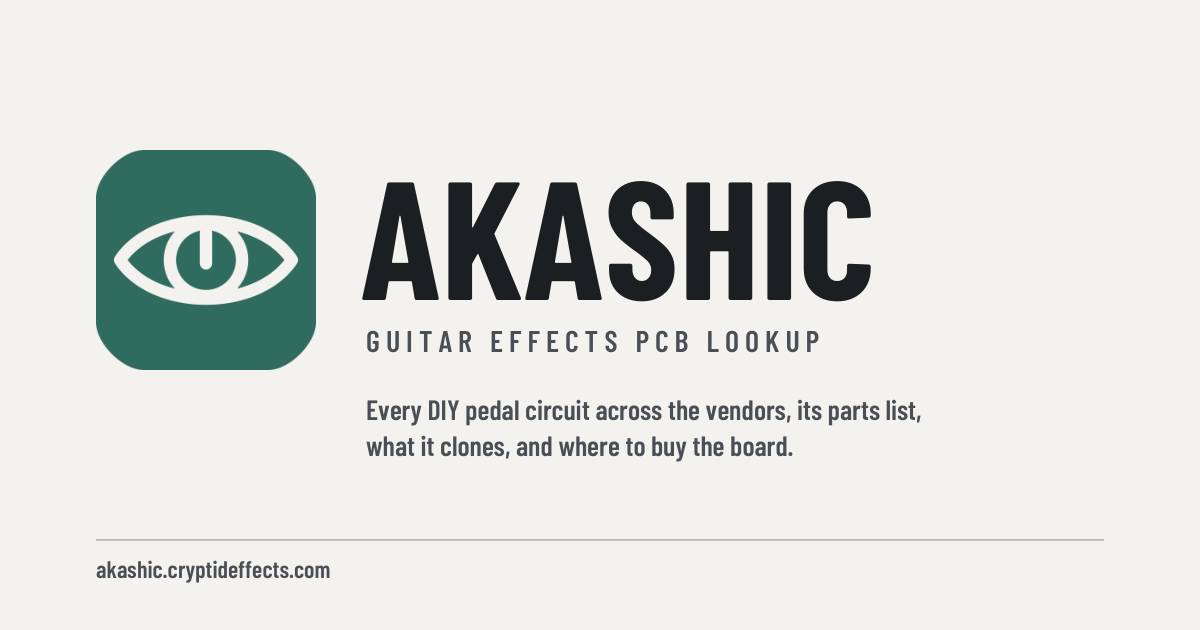
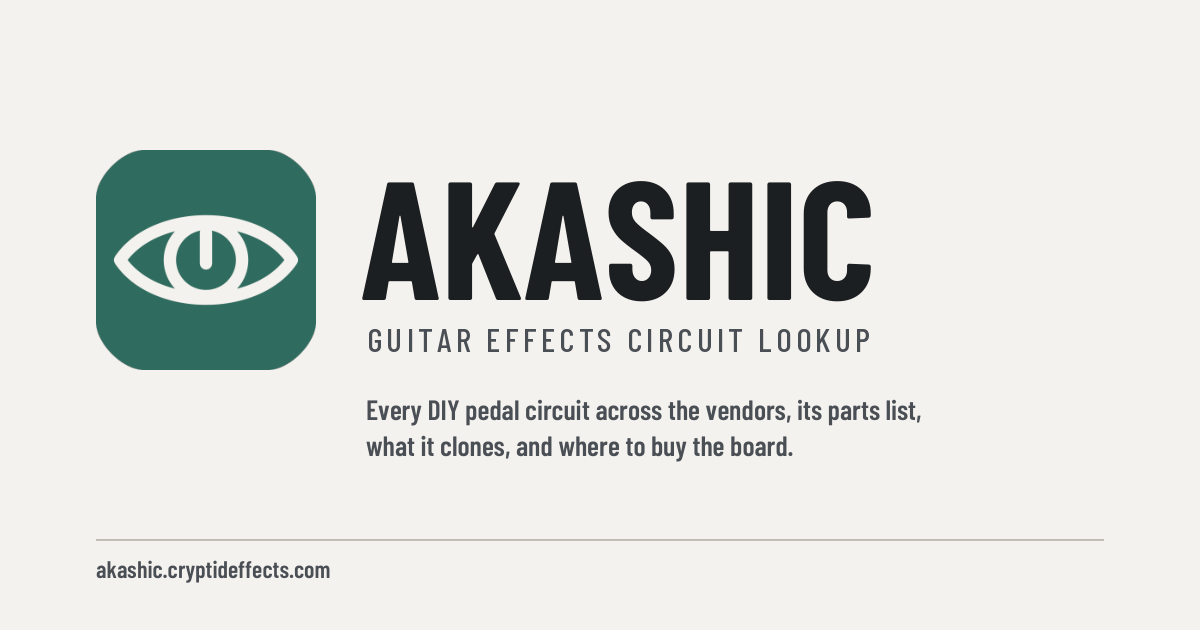
Tagline: 'Guitar effects circuit lookup' in the header, page title, manifest, wordmarks and link-preview image, now that layouts sit beside the PCBs
Claude-Session: https://claude.ai/code/session_018AH7QBv3eb2rNvUcF2zZv4

Changed region(s): [[0.3083, 0.5127, 0.74, 0.573]]

diff --git a/app/vite.config.ts b/app/vite.config.ts
@@ -8,9 +8,9 @@ export default defineConfig({
 		SvelteKitPWA({
 			registerType: 'autoUpdate',
 			manifest: {
-				name: 'Akashic: Guitar Effects PCB Lookup',
+				name: 'Akashic: Guitar Effects Circuit Lookup',
 				short_name: 'Akashic',
-				description: 'Guitar effects PCB lookup: every DIY pedal circuit, its parts list, and where to buy the board.',
+				description: 'Guitar effects circuit lookup: every DIY pedal circuit, its parts list, and where to buy the board or find the layout.',
 				theme_color: '#1c1f22',
 				background_color: '#f4f2ee',
 				display: 'standalone',

diff --git a/app/src/routes/+layout.svelte b/app/src/routes/+layout.svelte
@@ -58,7 +58,7 @@
 
 <svelte:head>
 	{#if pwaInfo}{@html pwaInfo.webManifest.linkTag}{/if}
-	<title>Akashic: Guitar Effects PCB Lookup</title>
+	<title>Akashic: Guitar Effects Circuit Lookup</title>
 </svelte:head>
 
 <header class="titleblock" bind:this={titleblock}>
@@ -66,7 +66,7 @@
 		<Mark size={34} />
 		<span class="brand-text">
 			<span class="brand-name">Akashic</span>
-			<span class="brand-sub">Guitar effects PCB lookup</span>
+			<span class="brand-sub">Guitar effects circuit lookup</span>
 		</span>
 	</a>
 	<form class="search" role="search" onsubmit={submit}>

diff --git a/README.md b/README.md
@@ -1,4 +1,4 @@
-<p align="center"><picture><source media="(prefers-color-scheme: dark)" srcset="app/static/wordmark-dark.png"><img src="app/static/wordmark.png" width="372" alt="Akashic: Guitar Effects PCB Lookup"></picture></p>
+<p align="center"><picture><source media="(prefers-color-scheme: dark)" srcset="app/static/wordmark-dark.png"><img src="app/static/wordmark.png" width="372" alt="Akashic: Guitar Effects Circuit Lookup"></picture></p>
 
 
 A searchable reference library of DIY guitar-pedal circuits, built from the build documents that PCB vendors publish. For every board it records what commercial pedal it is based on, the vendor and price with a link to buy the PCB, the build document, the controls and enclosure, and a fully parsed parts list with normalized values. Because every vendor's parts list lands in one database, the library can answer questions no vendor site can: every Rat derivative, every circuit that uses an LM308, every three-knob 125B board.

diff --git a/PRODUCT.md b/PRODUCT.md
@@ -30,7 +30,7 @@ Data is scraped on the owner's machine, cached, and exported as static JSON. Cir
 - Terminology: "circuit" (a vendor PCB project), "based on" (the commercial original), "BOM" (parts list), "ref" (designator).
 
 ## Brand Commitments
-Name: Akashic, subtitle Guitar Effects PCB Lookup (formerly PCB Schematic Library). No logo yet. Voice: plain, technical, terse.
+Name: Akashic, subtitle Guitar Effects Circuit Lookup (formerly PCB Schematic Library). No logo yet. Voice: plain, technical, terse.
 
 ## Evidence on Hand
 Real scraped data in `data/library.sqlite` and `app/static/data/`. No testimonials, no user counts; do not fabricate any.
